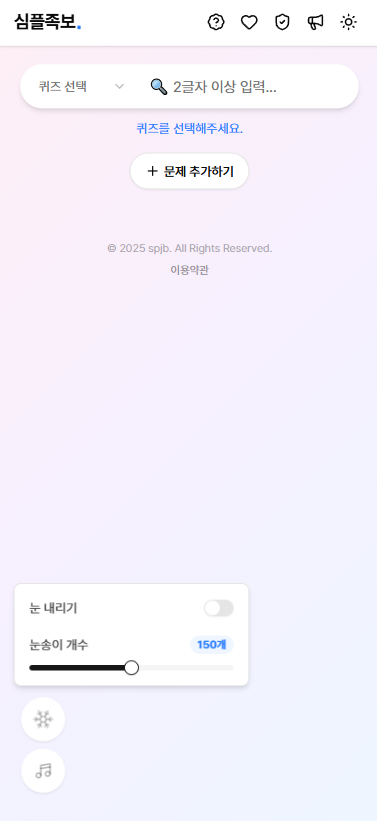
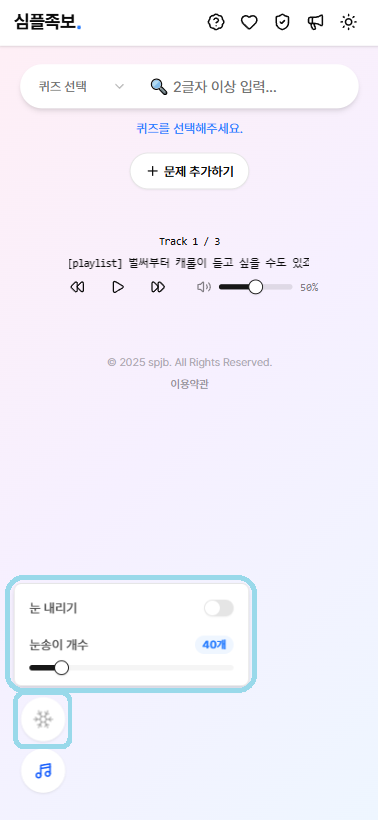
feat: 배경음 플레이어 위치 변경

diff --git a/src/App.tsx b/src/App.tsx
@@ -53,6 +53,9 @@ export default function App() {
 
           <CreateQuizModal />
         </section>
+
+        {/* 배경음악 */}
+        {showPlayer && <BGMPlayer className="mt-12" />}
       </main>
 
       <Footer />
@@ -71,9 +74,6 @@ export default function App() {
         onChangeShow={setShowSnow}
         onChangeCount={(v) => setSnowflakeCount(v[0])}
       />
-
-      {/* 배경음악 */}
-      {showPlayer && <BGMPlayer className="mt-4" />}
 
       {/* Vercel Analytics */}
       <Analytics />
